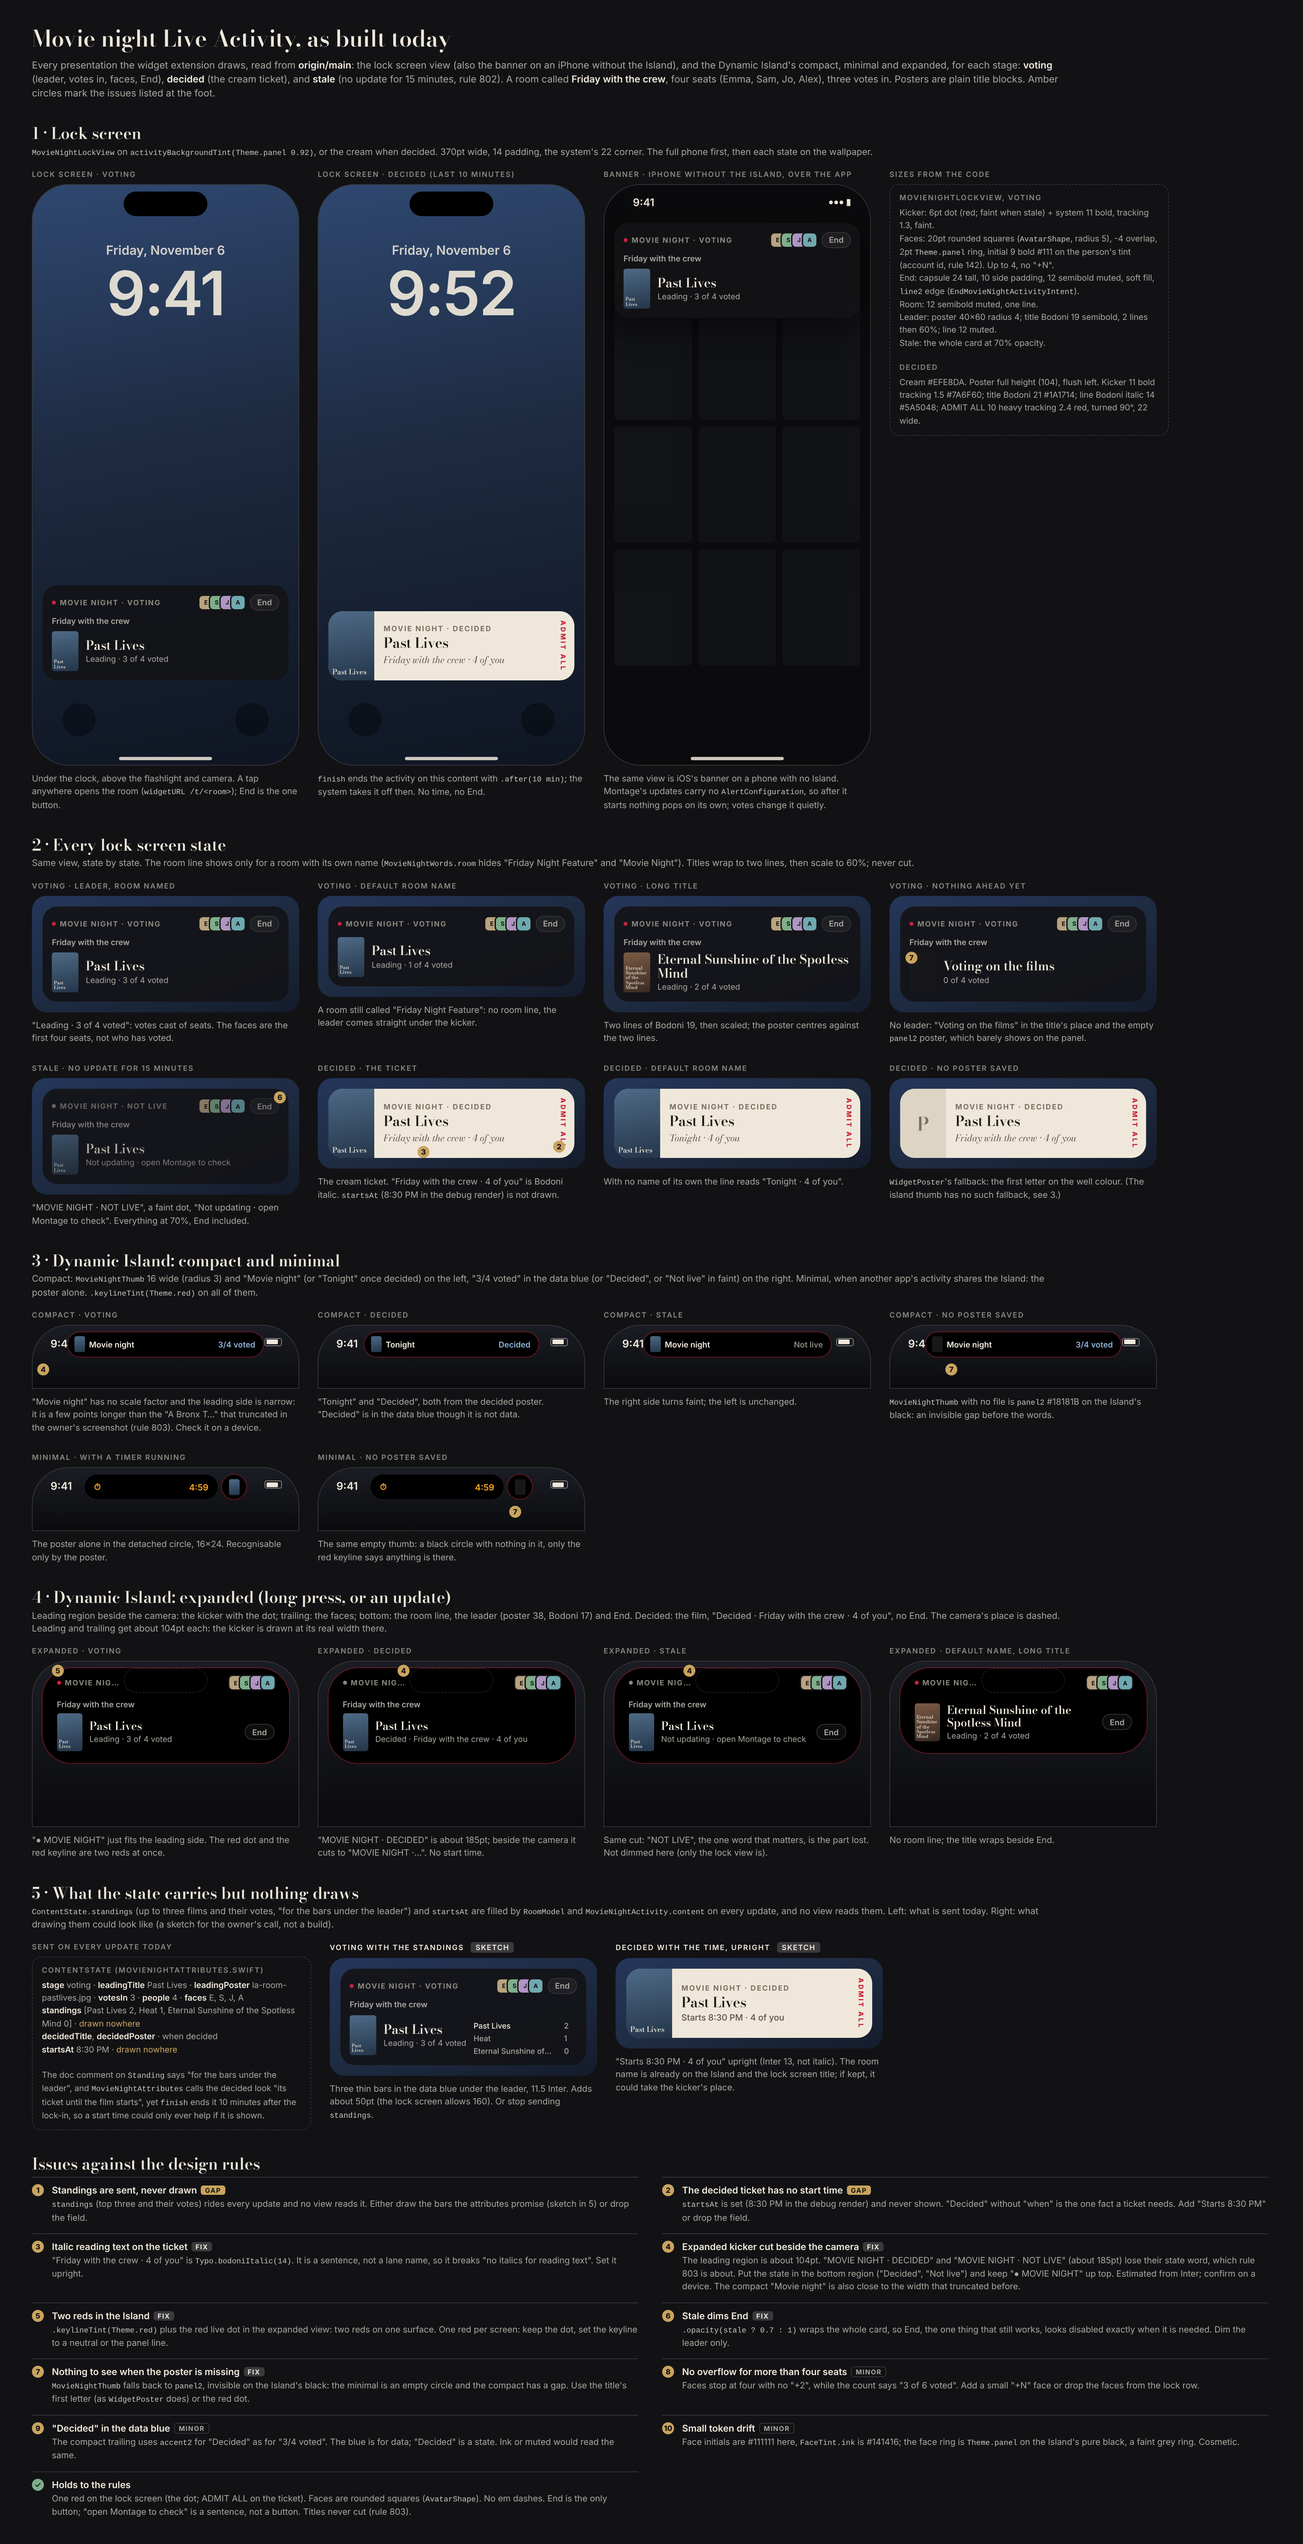
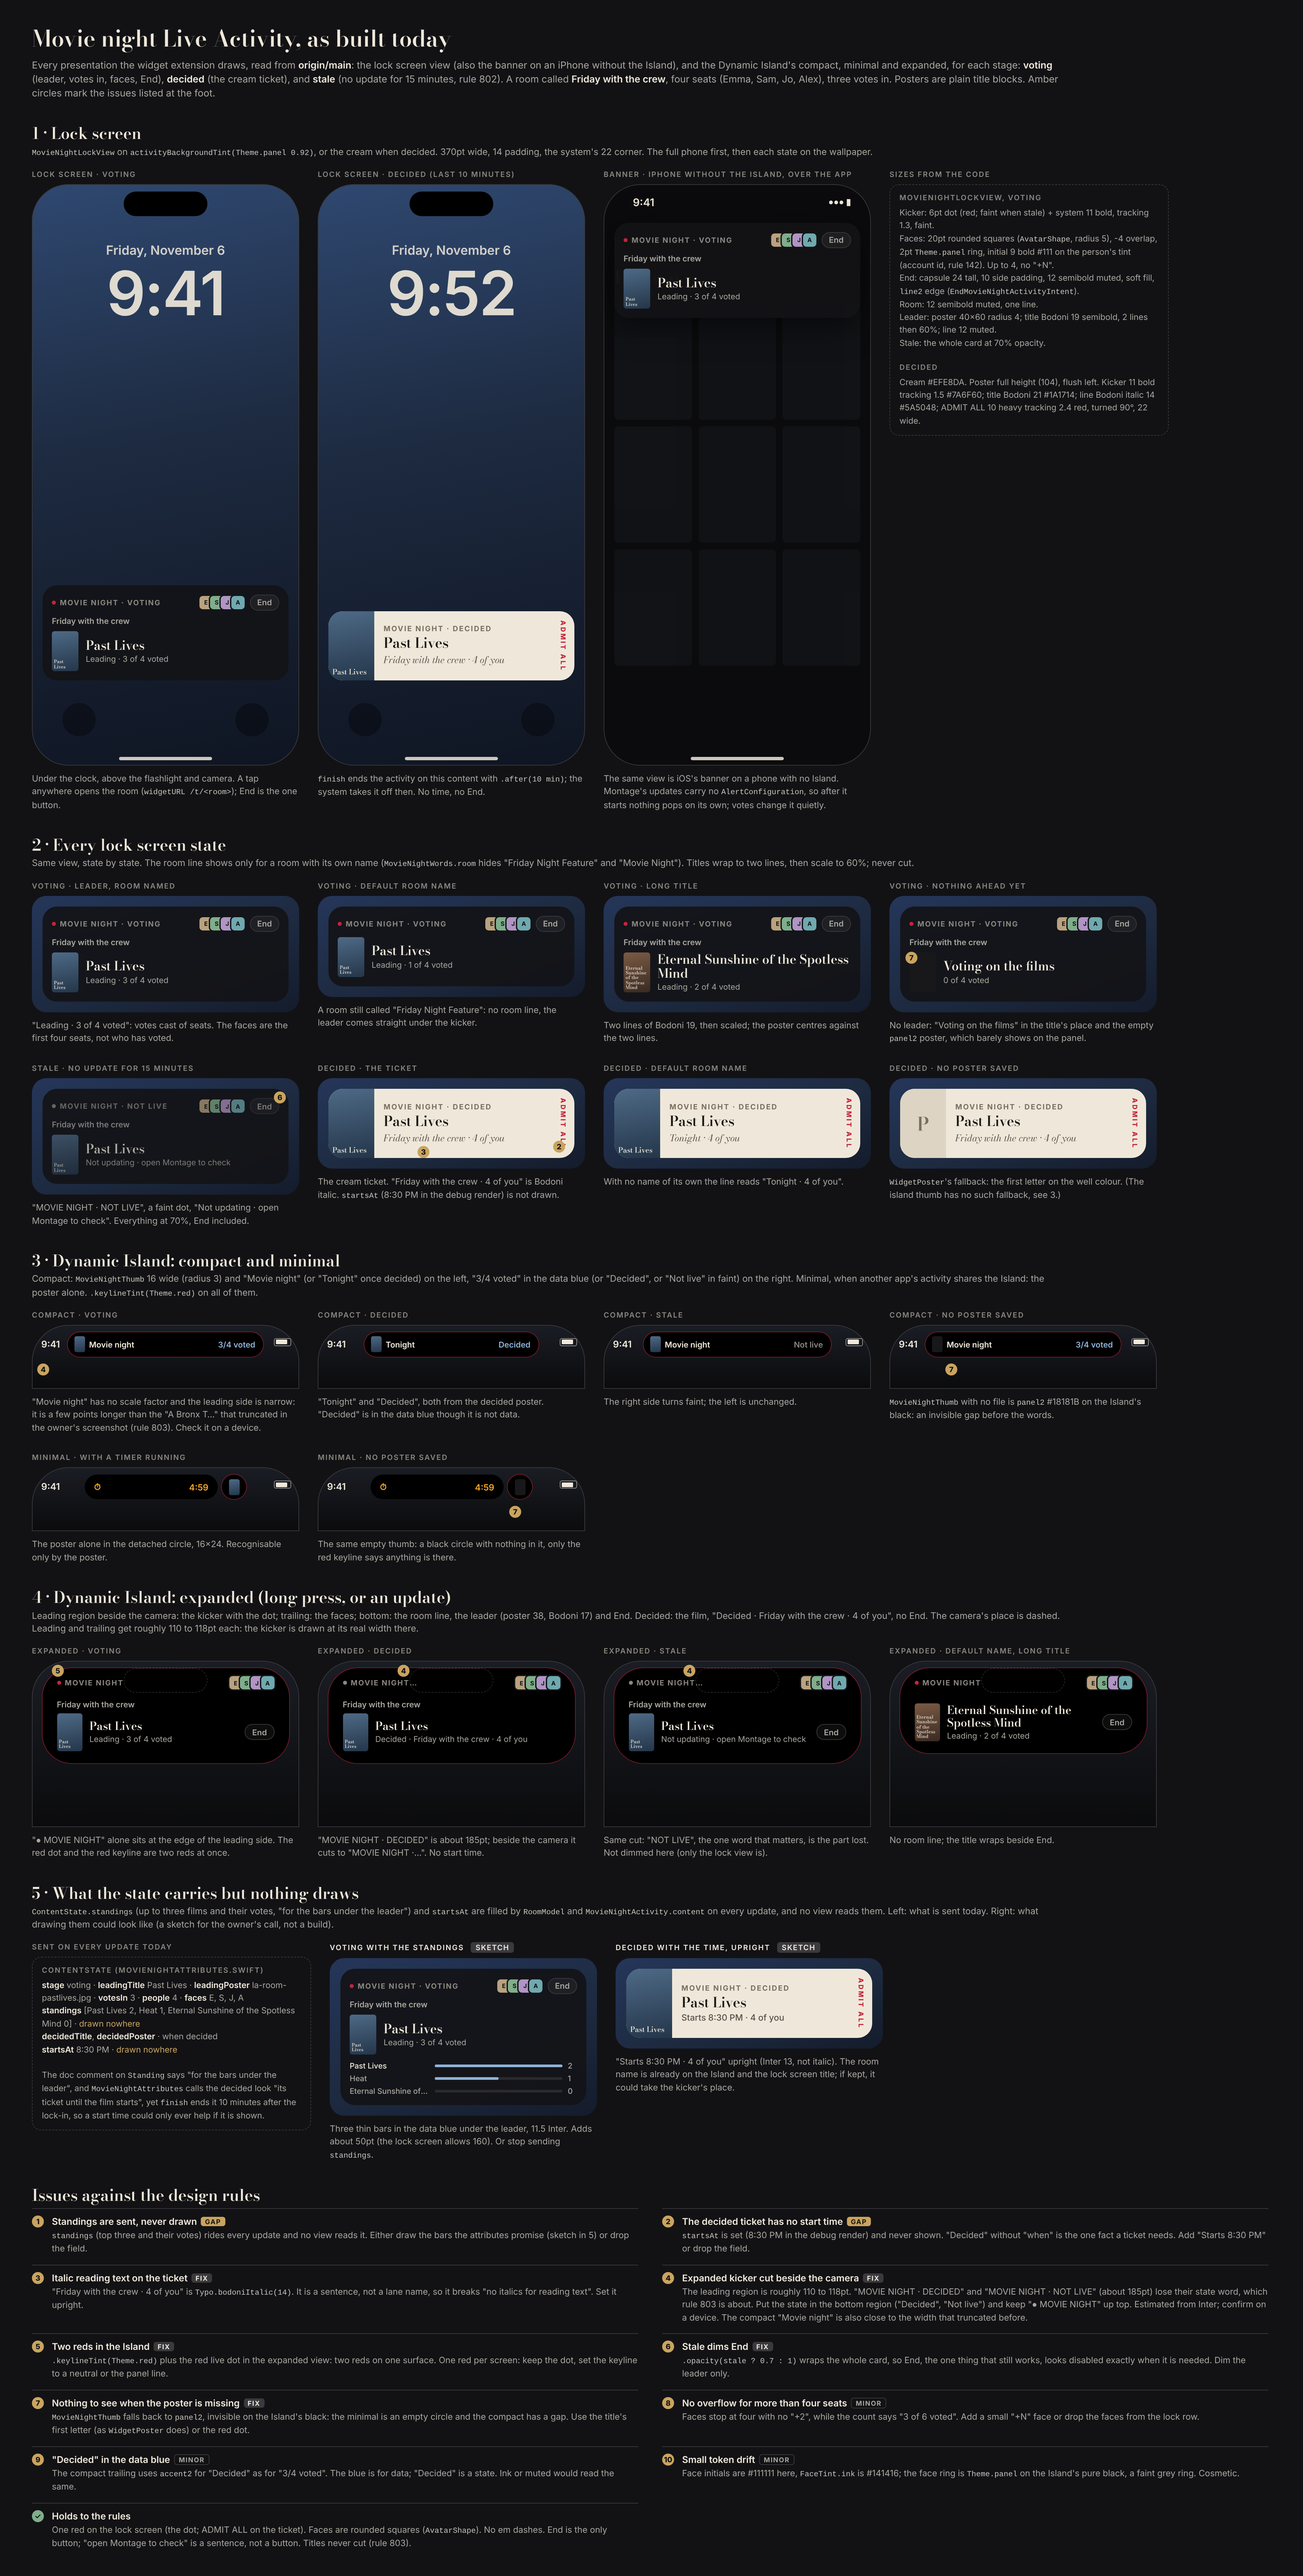
Drafts: mocks in progress
Claude-Session: https://claude.ai/code/session_013WRDCFXH8nihP92apJAVW7

diff --git a/mockups/journeys/live-activity-v1.html b/mockups/journeys/live-activity-v1.html
@@ -85,8 +85,8 @@ code{font:500 11.5px/1.4 ui-monospace,Menlo,monospace;color:#C9C5BC}
 /* ---------- Dynamic Island ---------- */
 .top{width:402px;height:96px;border-radius:55px 55px 0 0;background:linear-gradient(180deg,#1A1D24,#0B0B0D);position:relative;overflow:hidden;outline:1.5px solid var(--line2);outline-offset:-1px}
 .top.tall{height:250px}
-.top .tm{position:absolute;left:28px;top:18px;font:600 16px Inter;color:var(--ink)}
-.top .bt{position:absolute;right:26px;top:20px;width:26px;height:12px;border-radius:3px;border:1.5px solid rgba(239,232,218,.6)}
+.top .tm{position:absolute;left:14px;top:20px;font:600 14px Inter;color:var(--ink)}
+.top .bt{position:absolute;right:12px;top:20px;width:26px;height:12px;border-radius:3px;border:1.5px solid rgba(239,232,218,.6)}
 .top .bt:after{content:"";position:absolute;inset:1.5px;right:5px;background:var(--ink);border-radius:1px}
 .cmp{position:absolute;top:11px;left:50%;transform:translateX(-50%);height:37px;border-radius:20px;background:#000;display:flex;align-items:center;padding:0 12px 0 10px;gap:0}
 .cmp.key{box-shadow:0 0 0 1px rgba(200,35,58,.55)}
@@ -102,9 +102,9 @@ code{font:500 11.5px/1.4 ui-monospace,Menlo,monospace;color:#C9C5BC}
 .exp{position:absolute;top:11px;left:15.5px;width:371px;border-radius:44px;background:#000;padding:0 18px 18px}
 .exp.key{box-shadow:0 0 0 1px rgba(200,35,58,.55)}
 .exp .tr{display:flex;align-items:center;height:37px;margin-top:4px}
-.exp .lr{width:104px;display:flex;align-items:center;padding-left:4px}
+.exp .lr{width:118px;display:flex;align-items:center;padding-left:4px}
 .exp .hole{width:126px;flex:none;margin:0 auto}
-.exp .rr{width:104px;display:flex;justify-content:flex-end;padding-right:4px}
+.exp .rr{width:118px;display:flex;justify-content:flex-end;padding-right:4px}
 .exp .bot{padding:6px 4px 0}
 .exp .room{margin-top:0}
 .exp .lead{margin-top:6px;gap:11px}
@@ -152,7 +152,7 @@ code{font:500 11.5px/1.4 ui-monospace,Menlo,monospace;color:#C9C5BC}
 <div class="cmpline" id="compact"></div>
 
 <div class="h2">4 · Dynamic Island: expanded (long press, or an update)</div>
-<div class="h2s">Leading region beside the camera: the kicker with the dot; trailing: the faces; bottom: the room line, the leader (poster 38, Bodoni 17) and End. Decided: the film, "Decided · Friday with the crew · 4 of you", no End. The camera's place is dashed. Leading and trailing get about 104pt each: the kicker is drawn at its real width there.</div>
+<div class="h2s">Leading region beside the camera: the kicker with the dot; trailing: the faces; bottom: the room line, the leader (poster 38, Bodoni 17) and End. Decided: the film, "Decided · Friday with the crew · 4 of you", no End. The camera's place is dashed. Leading and trailing get roughly 110 to 118pt each: the kicker is drawn at its real width there.</div>
 <div class="row" id="expanded"></div>
 
 <div class="h2">5 · What the state carries but nothing draws</div>
@@ -175,7 +175,7 @@ const END='<span class="end">End</span>';
 const voting=o=>`<div class="la v ${o.stale?'stale':''}"><div class="in">
  <div class="krow"><span class="kick"><i class="${o.stale?'off':''}"></i><span>${o.stale?'MOVIE NIGHT · NOT LIVE':'MOVIE NIGHT · VOTING'}</span></span><span class="sp"></span>${faces(o.n??4)}${END}</div>
  ${o.room?`<div class="room">${o.room}</div>`:''}
- <div class="lead">${po(o.poster,40)}<div style="min-width:0"><div class="t">${o.title}</div><div class="s">${o.stale?'Not updating · open Montage to check':o.sub}</div></div></div>
+ <div class="lead">${po(o.poster,40)}<div style="min-width:0"><div class="t">${o.title}</div><div class="s">${o.stale?'Not updating · open Montage to check':o.sub}</div></div></div>${o.below||''}
 </div>${o.extra||''}</div>`;
 const decided=(o={})=>`<div class="la d"><span class="po ${o.p||'pl'} bigpo" style="border-radius:0">${o.ptitle||'Past Lives'}</span>
  <div class="mid"><div class="k">MOVIE NIGHT · DECIDED</div><div class="t">${o.title||'Past Lives'}</div><div class="ln ${o.up?'up':''}">${o.line||'Friday with the crew · 4 of you'}</div></div>
@@ -236,11 +236,11 @@ document.getElementById('compact').innerHTML=
 
 // 4. expanded
 const exp=o=>`<div class="top tall">${''}<div class="exp key">
- <div class="tr"><span class="lr"><span class="kick" style="max-width:100px"><i class="${o.live?'':'off'}"></i><span>${o.kick}</span></span></span><span class="hole"></span><span class="rr">${faces(4)}</span></div>
+ <div class="tr"><span class="lr"><span class="kick" style="max-width:114px"><i class="${o.live?'':'off'}"></i><span>${o.kick}</span></span></span><span class="hole"></span><span class="rr">${faces(4)}</span></div>
  <div class="bot">${o.room?`<div class="room">${o.room}</div>`:''}${o.body}</div></div><div class="cam"></div>${o.extra||''}</div>`;
 const leadBody=(t,s)=>`<div class="lead">${po('pl',38)}<div style="flex:1;min-width:0"><div class="t">${t}</div><div class="s">${s}</div></div>${END}</div>`;
 document.getElementById('expanded').innerHTML=
- c('Expanded · voting',exp({live:true,kick:'MOVIE NIGHT',room:'Friday with the crew',body:leadBody('Past Lives','Leading · 3 of 4 voted'),extra:flag(5,'left:30px;top:6px')}),'"● MOVIE NIGHT" just fits the leading side. The red dot and the red keyline are two reds at once.')+
+ c('Expanded · voting',exp({live:true,kick:'MOVIE NIGHT',room:'Friday with the crew',body:leadBody('Past Lives','Leading · 3 of 4 voted'),extra:flag(5,'left:30px;top:6px')}),'"● MOVIE NIGHT" alone sits at the edge of the leading side. The red dot and the red keyline are two reds at once.')+
  c('Expanded · decided',exp({live:false,kick:'MOVIE NIGHT · DECIDED',room:'Friday with the crew',body:`<div class="lead">${po('pl',38)}<div style="flex:1;min-width:0"><div class="t">Past Lives</div><div class="s">Decided · Friday with the crew · 4 of you</div></div></div>`,extra:flag(4,'left:120px;top:6px')}),'"MOVIE NIGHT · DECIDED" is about 185pt; beside the camera it cuts to "MOVIE NIGHT ·…". No start time.')+
  c('Expanded · stale',exp({live:false,kick:'MOVIE NIGHT · NOT LIVE',room:'Friday with the crew',body:leadBody('Past Lives','Not updating · open Montage to check'),extra:flag(4,'left:120px;top:6px')}),'Same cut: "NOT LIVE", the one word that matters, is the part lost. Not dimmed here (only the lock view is).')+
  c('Expanded · default name, long title',exp({live:true,kick:'MOVIE NIGHT',room:null,body:`<div class="lead">${po('es',38)}<div style="flex:1;min-width:0"><div class="t">Eternal Sunshine of the Spotless Mind</div><div class="s">Leading · 2 of 4 voted</div></div>${END}</div>`}),'No room line; the title wraps beside End.');
@@ -253,7 +253,7 @@ document.getElementById('carry').innerHTML=`
 <b>decidedTitle</b>, <b>decidedPoster</b> · when decided<br>
 <b>startsAt</b> 8:30 PM <span style="color:#C9A45F">· drawn nowhere</span><br><br>
 The doc comment on <code>Standing</code> says "for the bars under the leader", and <code>MovieNightAttributes</code> calls the decided look "its ticket until the film starts", yet <code>finish</code> ends it 10 minutes after the lock-in, so a start time could only ever help if it is shown.</div></div>
-<div class="cell"><div class="lab rec">Voting with the standings <span class="tag q">SKETCH</span></div><div class="wall">${voting({...VOTE,extra:''}).replace('</div></div></div>','</div></div><div class="stand"><div class="top1"><span>Past Lives</span><span class="bar"><i style="width:100%"></i></span><span>2</span></div><div><span>Heat</span><span class="bar"><i style="width:50%"></i></span><span>1</span></div><div><span>Eternal Sunshine of the S…</span><span class="bar"><i style="width:0"></i></span><span>0</span></div></div></div>')}</div>
+<div class="cell"><div class="lab rec">Voting with the standings <span class="tag q">SKETCH</span></div><div class="wall">${voting({...VOTE,below:'<div class="stand"><div class="top1"><span>Past Lives</span><span class="bar"><i style="width:100%"></i></span><span>2</span></div><div><span>Heat</span><span class="bar"><i style="width:50%"></i></span><span>1</span></div><div><span>Eternal Sunshine of the S…</span><span class="bar"><i style="width:0"></i></span><span>0</span></div></div>'})}</div>
  <p class="cap">Three thin bars in the data blue under the leader, 11.5 Inter. Adds about 50pt (the lock screen allows 160). Or stop sending <code>standings</code>.</p></div>
 <div class="cell"><div class="lab rec">Decided with the time, upright <span class="tag q">SKETCH</span></div><div class="wall">${decided({up:true,line:'Starts 8:30 PM · 4 of you'})}</div>
  <p class="cap">"Starts 8:30 PM · 4 of you" upright (Inter 13, not italic). The room name is already on the Island and the lock screen title; if kept, it could take the kicker's place.</p></div>`;
@@ -263,7 +263,7 @@ const I=[
  ['hi','Standings are sent, never drawn','<code>standings</code> (top three and their votes) rides every update and no view reads it. Either draw the bars the attributes promise (sketch in 5) or drop the field.'],
  ['hi','The decided ticket has no start time','<code>startsAt</code> is set (8:30 PM in the debug render) and never shown. "Decided" without "when" is the one fact a ticket needs. Add "Starts 8:30 PM" or drop the field.'],
  ['md','Italic reading text on the ticket','"Friday with the crew · 4 of you" is <code>Typo.bodoniItalic(14)</code>. It is a sentence, not a lane name, so it breaks "no italics for reading text". Set it upright.'],
- ['md','Expanded kicker cut beside the camera','The leading region is about 104pt. "MOVIE NIGHT · DECIDED" and "MOVIE NIGHT · NOT LIVE" (about 185pt) lose their state word, which rule 803 is about. Put the state in the bottom region ("Decided", "Not live") and keep "● MOVIE NIGHT" up top. Estimated from Inter; confirm on a device. The compact "Movie night" is also close to the width that truncated before.'],
+ ['md','Expanded kicker cut beside the camera','The leading region is roughly 110 to 118pt. "MOVIE NIGHT · DECIDED" and "MOVIE NIGHT · NOT LIVE" (about 185pt) lose their state word, which rule 803 is about. Put the state in the bottom region ("Decided", "Not live") and keep "● MOVIE NIGHT" up top. Estimated from Inter; confirm on a device. The compact "Movie night" is also close to the width that truncated before.'],
  ['md','Two reds in the Island','<code>.keylineTint(Theme.red)</code> plus the red live dot in the expanded view: two reds on one surface. One red per screen: keep the dot, set the keyline to a neutral or the panel line.'],
  ['md','Stale dims End','<code>.opacity(stale ? 0.7 : 1)</code> wraps the whole card, so End, the one thing that still works, looks disabled exactly when it is needed. Dim the leader only.'],
  ['md','Nothing to see when the poster is missing','<code>MovieNightThumb</code> falls back to <code>panel2</code>, invisible on the Island\'s black: the minimal is an empty circle and the compact has a gap. Use the title\'s first letter (as <code>WidgetPoster</code> does) or the red dot.'],
